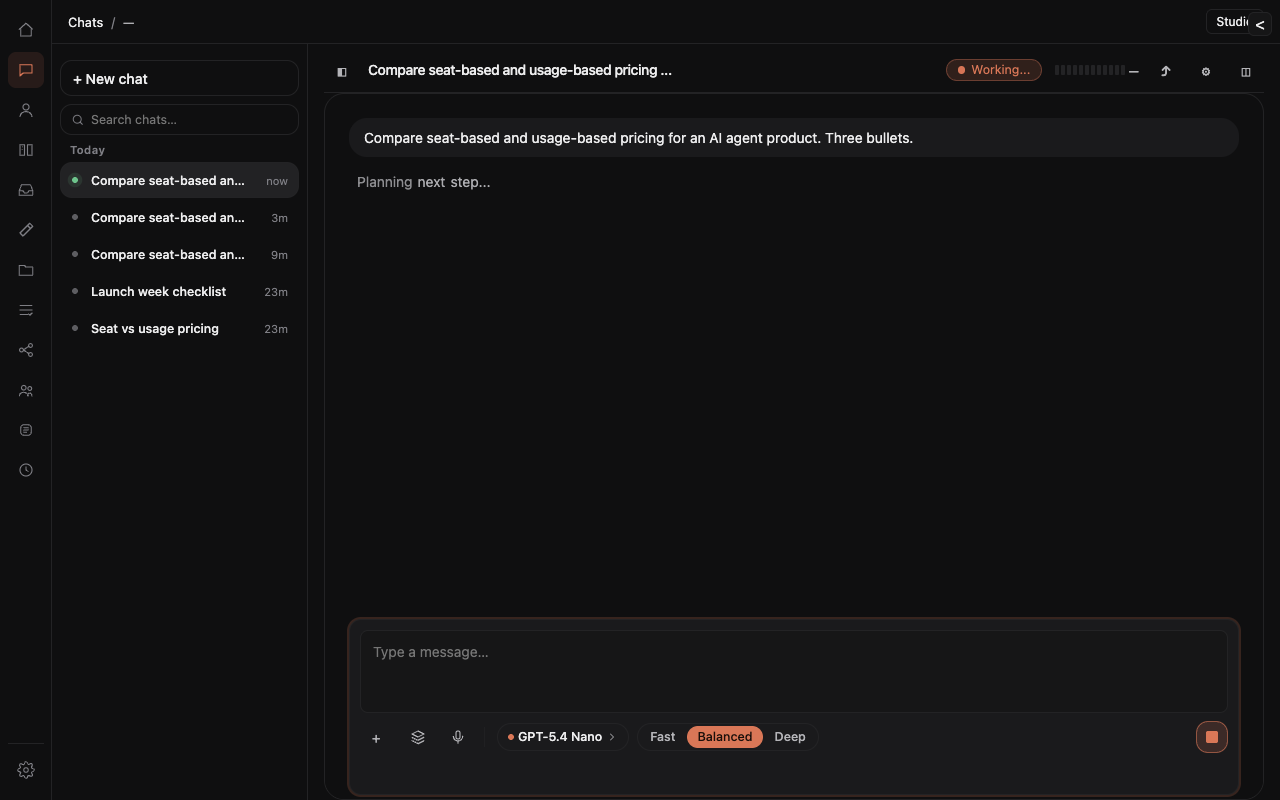
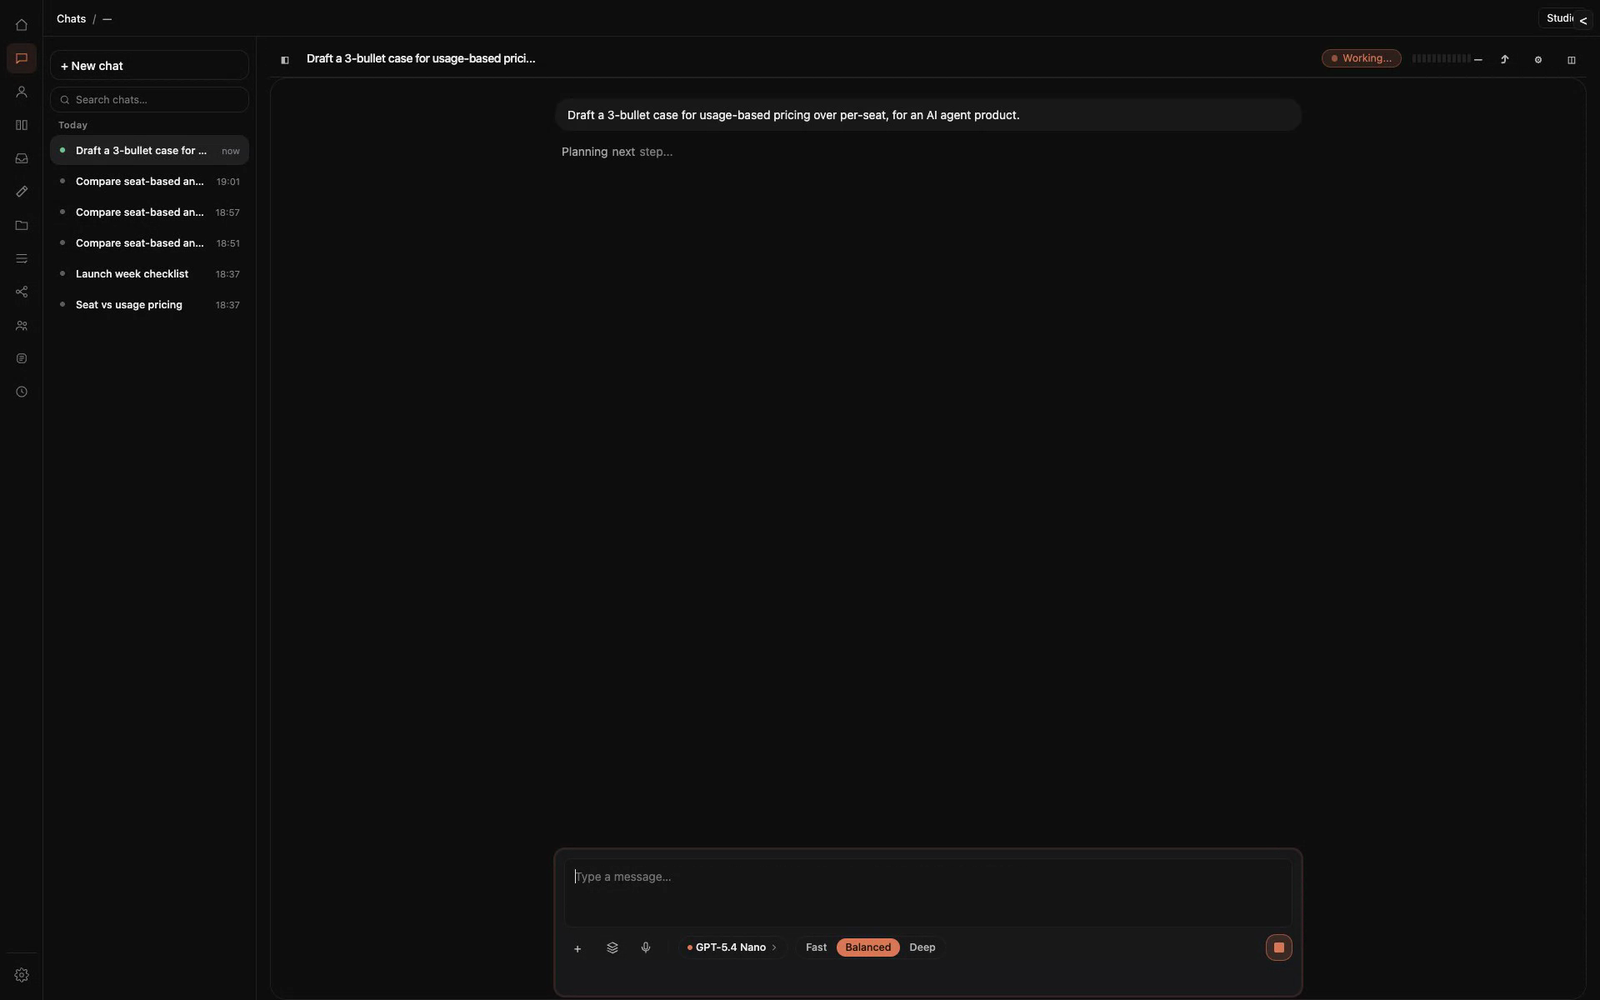
feat(website): sharper pitch, crisp video, real product imagery
Addresses three rounds of feedback: the pitch was boring, the video was
low quality, and two sections landed flat.

Pitch — "The agent that shows its work" is gone. It described a feature
(transparency) in schoolteacher language, not a benefit. New hero, in
the delegation register of Claude Cowork / Atlassian Rovo but keeping
the one thing they can't say: "Hand it the work. Keep the keys." The
differentiation (local, BYOK, you own everything) is now the headline.

Video — re-recorded at 1920x1200 (was 1280x800), ffmpeg-encoded to a
high-bitrate H.264 mp4 (universal, incl. Safari/iOS) + VP9 webm
fallback. Crisper AND smaller than the old 1.3 MB VP8 (689 KB / 537 KB).
Real session throughout, played at 2x.

Killed "Agents don't fail loudly" — fear-first framing. Replaced with
"In control: it works on its own, you're never out of the loop," selling
the same watch/rewind/steer capability as a benefit.

Fixed the dud "twelve surfaces" image. The recording surfaced the app's
new-chat welcome screen — suggestion cards reading "Draft the launch
announcement / Summarize last week in Slack / Find the brand guidelines /
Compare vs a competitor." That IS the pitch as a picture; the section now
leads with it.

Deploy fixes:
- Removed public/CNAME. Shipping it before 0xcopilot.tech DNS exists made
  Pages 404 the github.io URL — why the live site went blank after the
  merge. Re-add once DNS is live.
- large-file hook exception updated for demo.mp4.
[…]

diff --git a/apps/website/src/components/Demo.tsx b/apps/website/src/components/Demo.tsx
@@ -1,12 +1,12 @@
 /* The hero: a real recorded session, played at 2x.
  *
- * The recording is genuine — a real prompt, a real run against a real provider
- * key, a real streamed answer. It is filmed at 1x and played back at 2x here
- * (`playbackRate`), which is why the typing reads at a natural speed.
+ * Genuine throughout — a real prompt, a real run against a real provider key, a
+ * real streamed answer. Filmed at 1x and played back at 2x here, which is why
+ * the typing reads at a natural speed.
  *
- * This is the one interactive island on the site; everything else is static
- * HTML. It hydrates on load only because playbackRate cannot be set from
- * markup — there is no attribute for it.
+ * Two sources: H.264 mp4 first (universal, incl. Safari/iOS), VP9 webm as a
+ * lighter fallback for Chromium/Firefox. This is the site's one hydrated
+ * island — only because playbackRate has no HTML attribute.
  */
 import { useEffect, useRef } from "react";
 
@@ -17,20 +17,13 @@ export function Demo({ rate = 2 }: { readonly rate?: number }) {
     const v = ref.current;
     if (!v) return;
     v.playbackRate = rate;
-    // Skip the browser's blank first frame before the app paints.
-    const onMeta = () => {
-      if (v.currentTime < 0.4) v.currentTime = 0.4;
-    };
-    v.addEventListener("loadedmetadata", onMeta);
-    return () => v.removeEventListener("loadedmetadata", onMeta);
   }, [rate]);
 
   return (
     <figure style={{ margin: 0 }}>
-      <div className="shot">
+      <div className="shot shot--video">
         <video
           ref={ref}
-          src="./media/demo.webm"
           poster="./media/poster.png"
           autoPlay
           muted
@@ -38,7 +31,10 @@ export function Demo({ rate = 2 }: { readonly rate?: number }) {
           playsInline
           preload="metadata"
           aria-label="A recorded 0xCopilot session: a prompt is typed, the run streams its answer, and the work lands on the Todos and Projects surfaces."
-        />
+        >
+          <source src="./media/demo.mp4" type="video/mp4" />
+          <source src="./media/demo.webm" type="video/webm" />
+        </video>
       </div>
       <figcaption className="shot__cap">
         <b>Recorded from the running app.</b>

diff --git a/apps/website/src/styles/site.css b/apps/website/src/styles/site.css
@@ -253,6 +253,14 @@ video {
 .shot video {
   width: 100%;
   height: auto;
+  display: block;
+}
+
+/* The hero video reads best a touch larger than a static shot. */
+.shot--video {
+  box-shadow:
+    0 1px 2px rgb(20 22 26 / 0.05),
+    0 20px 60px -16px rgb(11 111 106 / 0.28);
 }
 
 .shot__cap {